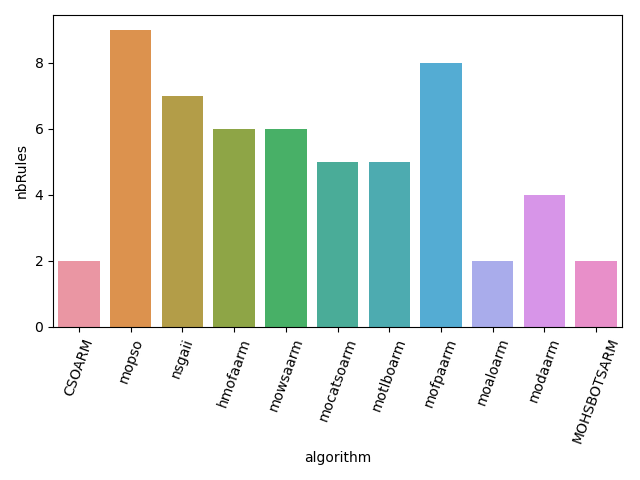
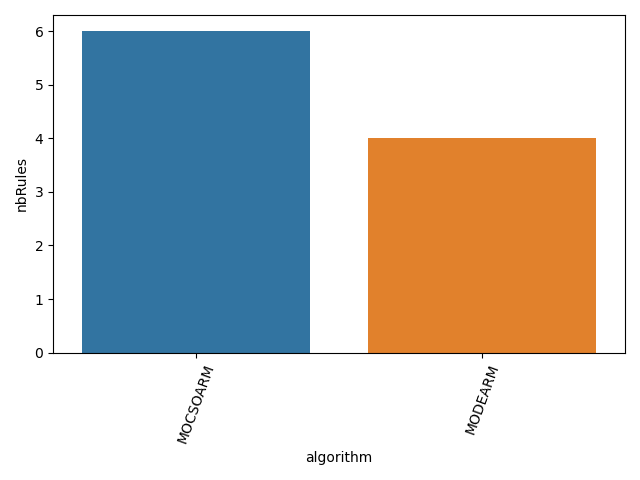
add MODEARM

diff --git a/main.py b/main.py
@@ -3,7 +3,7 @@ import pandas as pd
 from src.Algorithm.MOPSO import *
 from src.Algorithm.MOBARM import *
 from src.Algorithm.NSGAII import *
-from src.Algorithm.CSOARM import *
+from src.Algorithm.MOCSOARM import *
 from src.Algorithm.HMOFAARM import *
 from src.Algorithm.MOSAARM import *
 from src.Algorithm.MOWSAARM import *
@@ -13,6 +13,7 @@ from src.Algorithm.MOFPAARM import *
 from src.Algorithm.MOALOARM import *
 from src.Algorithm.MODAARM import *
 from src.Algorithm.MOHSBOTSARM import *
+from src.Algorithm.MODEARM import *
 
 from src.Utils.Performances import *
 from src.Utils.Data import *
@@ -35,11 +36,11 @@ nbIteration = 10
 populationSize = 200
 objectiveNames = ['support','confidence','klosgen']
 criterionList = ['scores','execution time']
-#algorithmNameList = ['MODAARM','MOHSBOTSARM']
-algorithmNameList = ['CSOARM','mopso','nsgaii','hmofaarm','mowsaarm','mocatsoarm','motlboarm','mofpaarm','moaloarm','modaarm','MOHSBOTSARM']
+algorithmNameList = ['MOCSOARM','MODEARM']
+#algorithmNameList = ['CSOARM','mopso','nsgaii','hmofaarm','mowsaarm','mocatsoarm','motlboarm','mofpaarm','moaloarm','modaarm','MOHSBOTSARM']
 
 perf = Performances(algorithmNameList,criterionList,objectiveNames)
-d = Data(artificial=True)
+#d = Data(artificial=True)
 d = Data('Data/Transform/congress.csv',header=0,indexCol=0)
 #d.TransformToHorizontalBinary()
 #d.Save('Data/Transform/abalone.data')
@@ -48,7 +49,7 @@ d.ToNumpy()
 mopso = MOPSO(d.data.shape[1],populationSize,nbIteration,len(objectiveNames),objectiveNames)
 #mobarm = MOBARM(d.data.shape[1],populationSize,nbIteration,10,len(objectiveNames),objectiveNames)
 nsgaii = NSGAII(d.data.shape[1],populationSize,nbIteration,len(objectiveNames),objectiveNames,d.data)
-csoarm = CSOARM(d.data.shape[1],populationSize,nbIteration,len(objectiveNames),objectiveNames,d.data)
+mocsoarm = MOCSOARM(d.data.shape[1],populationSize,nbIteration,len(objectiveNames),objectiveNames,d.data)
 hmofaarm = HMOFAARM(d.data.shape[1],populationSize,nbIteration,len(objectiveNames),objectiveNames)
 mosaarm = MOSAARM(d.data.shape[1],populationSize,nbIteration,len(objectiveNames),objectiveNames)
 mowsaarm = MOWSAARM(d.data.shape[1],populationSize,nbIteration,len(objectiveNames),objectiveNames)
@@ -58,10 +59,11 @@ mofpaarm = MOFPAARM(d.data.shape[1],populationSize,nbIteration,len(objectiveName
 moaloarm = MOALOARM(d.data.shape[1],populationSize,nbIteration,len(objectiveNames),objectiveNames,d.data)
 modaarm = MODAARM(d.data.shape[1],populationSize,nbIteration,len(objectiveNames),objectiveNames,d.data)
 mohsbotsarm = MOHSBOTSARM(d.data.shape[1],populationSize,nbIteration,len(objectiveNames),objectiveNames,d.data)
+modearm = MODEARM(d.data.shape[1],populationSize,nbIteration,len(objectiveNames),objectiveNames,d.data)
 
 
-algorithmList = [csoarm,mopso,nsgaii,hmofaarm,mowsaarm,mocatsoarm,motlboarm,mofpaarm,moaloarm,modaarm,mohsbotsarm]
-#algorithmList = [modaarm,mohsbotsarm]
+#algorithmList = [mocsoarm,mopso,nsgaii,hmofaarm,mowsaarm,mocatsoarm,motlboarm,mofpaarm,moaloarm,modaarm,mohsbotsarm]
+algorithmList = [mocsoarm,modearm]
 for i in range(nbIteration):
     k = 0
     for alg in algorithmList:

diff --git a/src/Algorithm/MODEARM.py b/src/Algorithm/MODEARM.py
@@ -1,0 +1,65 @@
+from src.Utils.Fitness import *
+from src.Utils.Population import *
+import matplotlib.pyplot as plt
+import pandas as pd
+from scipy.spatial import distance
+from src.Utils.Graphs import *
+from time import time
+from src.Utils.HyperParameters import *
+
+class MODEARM:
+    def __init__(self,nbItem,populationSize,nbIteration,nbObjectifs,objectiveNames,data,
+                 hyperParameters = HyperParameters(['F','CR']),visualScope=10,step=3):
+        self.population = Population('horizontal_binary', populationSize, nbItem)
+        self.nbItem = nbItem
+        self.nbIteration = nbIteration
+        self.nbObjectifs = nbObjectifs
+        self.fitness = Fitness('horizontal_binary', objectiveNames, populationSize )
+        self.mutatedVectors = np.zeros((populationSize,nbItem*2),dtype=float)
+        self.F = hyperParameters.hyperParameters['F']
+        self.CR=hyperParameters.hyperParameters['CR']
+        self.executionTime = 0
+        self.fitness.ComputeScorePopulation(self.population.population, data)
+
+
+    def Selection(self,data):
+        for i in range(self.population.populationSize):
+            score = self.fitness.ComputeScoreIndividual(self.mutatedVectors[i],data)
+            domination = self.fitness.Domination(self.fitness.scores[i],score)
+            if domination == 1:
+                self.population.population[i] = copy.deepcopy(self.mutatedVectors[i])
+            if domination == 0:
+                if sum(self.fitness.scores[i])<sum(score):
+                    self.population.population[i] = copy.deepcopy(self.mutatedVectors[i])
+
+
+    def CrossOver(self):
+        for i in range(self.population.populationSize):
+            q = rd.randint(0,self.nbItem*2-1)
+            for j in range(self.nbItem*2):
+                r = rd.random()
+                if r>self.CR and j != q:
+                    self.mutatedVectors[i][j] = self.population.population[i][j]
+
+    def Mutation(self):
+        for i in range(self.population.populationSize):
+            a = rd.randint(0,self.population.populationSize-1)
+            b = rd.randint(0,self.population.populationSize-1)
+            c = rd.randint(0,self.population.populationSize-1)
+            while a==i or b==i or c==i or a==b or a==c or b==c:
+                a = rd.randint(0, self.population.populationSize - 1)
+                b = rd.randint(0, self.population.populationSize - 1)
+                c = rd.randint(0, self.population.populationSize - 1)
+            self.mutatedVectors[i] = self.population.population[a] + self.F*(self.population.population[b]-self.population.population[c])
+
+
+    def Run(self,data,i):
+        t1 = time()
+        self.Mutation()
+        self.CrossOver()
+        self.Selection(data)
+        self.fitness.ComputeScorePopulation(self.population.population, data)
+        self.executionTime = time() - t1
+
+
+

diff --git a/src/Algorithm/MOCSOARM.py b/src/Algorithm/MOCSOARM.py
@@ -7,7 +7,7 @@ from src.Utils.Graphs import *
 from time import time
 from src.Utils.HyperParameters import *
 
-class CSOARM:
+class MOCSOARM:
     def __init__(self,nbItem,populationSize,nbIteration,nbObjectifs,objectiveNames,data,
                  hyperParameters = HyperParameters(['ruthlessRatio']),visualScope=10,step=3):
         self.population = Population('horizontal_binary', populationSize, nbItem)
